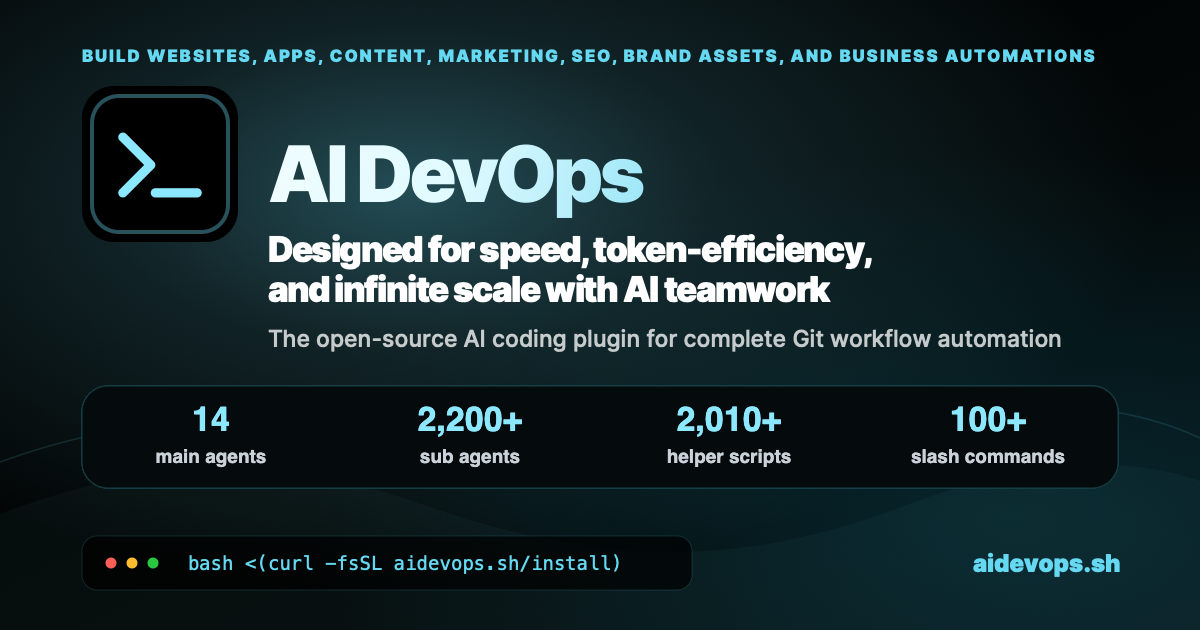
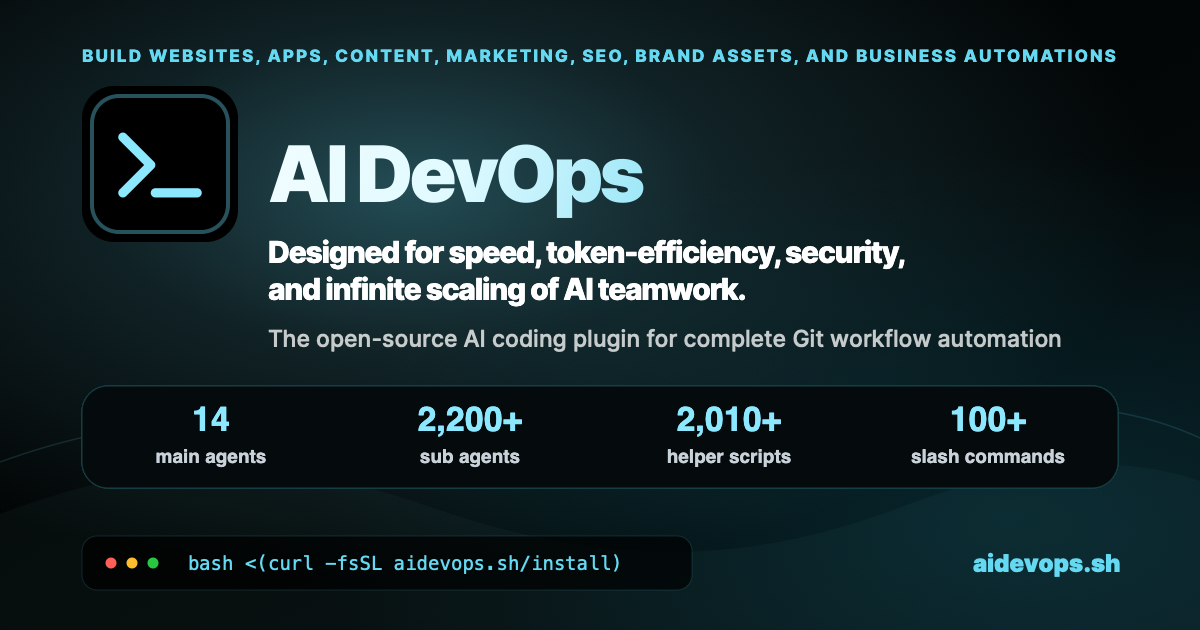
GH#31334: docs: Update README hero headline typography

Changed region(s): [[0.2158, 0.3619, 0.7708, 0.4825], [0.0617, 0.0603, 0.925, 0.1206]]

diff --git a/DESIGN.md b/DESIGN.md
@@ -292,6 +292,7 @@ Core component rules:
 ## README hero counts
 
 - Preserve the existing `1200x630` cyan terminal hero, headline, background, and installation copy in `docs/assets/og-image.png`. The editable `docs/assets/og-stats.svg` overlay replaces only the statistics card; do not regenerate the whole image just to change numbers.
+- Hero copy edits use the transparent `docs/assets/og-copy.svg` browser overlay. Keep the capability top-line centred at `x=600` with measured bounds `x=82`, width `1036`, using 17px/800 type and `1.95px` letter spacing. Set the two-line headline in 30px/760 type with `-1.25px` letter spacing. Copy rendering may change pixels only within the documented top-line (`1038x24+81+43`) and headline (`851x79+267+230`) rectangles; statistics and all other content remain pixel-identical.
 - Use the user-approved, familiar hero labels exactly: **main agents**, **sub agents**, **helper scripts**, and **slash commands**. Keep the detailed inventory definitions in the README and SVG description rather than replacing these labels with internal terminology. Never add overlapping categories into a combined skills/helpers total. Keep each label directly beneath its figure, with cyan numbers, high-contrast grey labels, and the original rounded near-black card.
 - The inventory is defined in `.agents/scripts/readme_inventory.py` and `readme_inventory_sources.py`, using tracked sources only. Main agents reuse `agent_config.SKIP_FILES`. Sub agents measure individually path-addressable Markdown modules, including callable skills, workflows, templates and references; do not require `mode: subagent` metadata or a narrow directory whitelist. Use the filename rules in `generate-opencode-agents.sh` (`*.md` excluding `README.md`, `AGENTS.md` and `*-skill.md` wrappers), plus demoted root profiles. Exclude test/fixture, generated/vendor/runtime source paths and symlink aliases. This is a source-module count, not a count of unique flattened runtime registrations.
 - Helper scripts include production script/source files and supporting modules in `.agents/scripts/` across the scripting-language suffixes listed in `SCRIPT_SUFFIXES`, plus executable extensionless shebang scripts. Do not restrict them to `*-helper` filenames. Exclude tests, fixtures, generated/vendor files, TypeScript declarations and aliases. Slash commands are direct Markdown entry points in `scripts/commands`, including aliases only when their targets are tracked regular files inside `.agents`. A regular command source can also be a sub-agent module; disclose overlap instead of summing categories.
